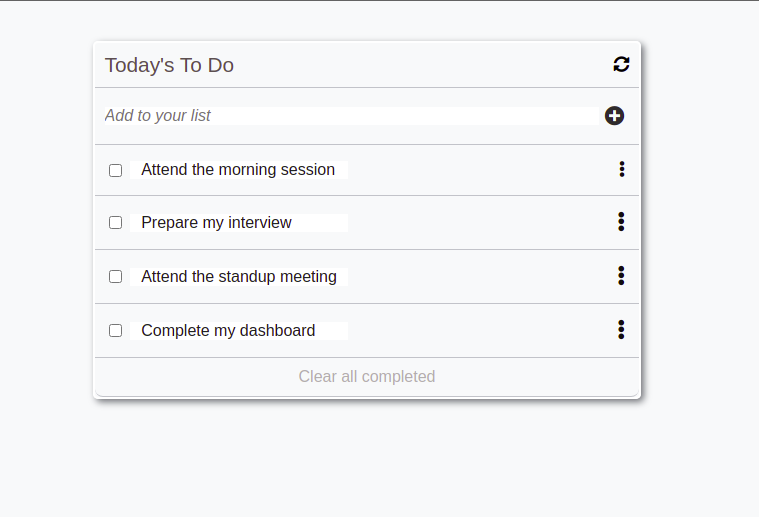
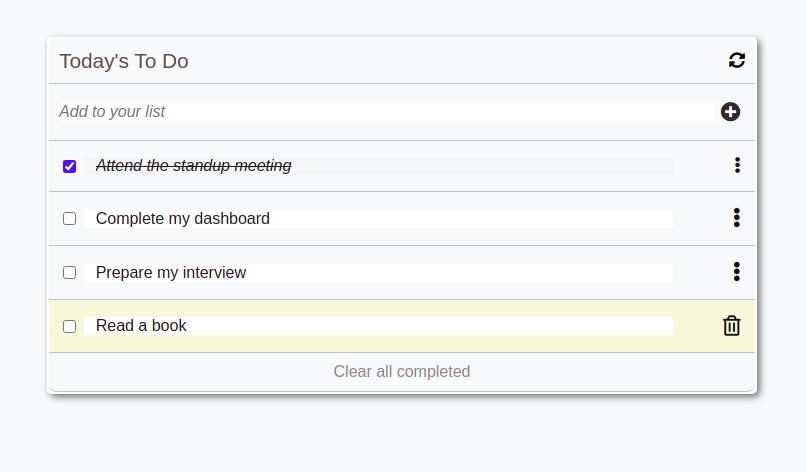
Update app screenshot in README.md fole and Update js files wit ```run build```

diff --git a/dist/index.bundle.js b/dist/index.bundle.js
@@ -1,1 +1,1 @@
-(()=>{"use strict";var n={426:(n,e,t)=>{t.d(e,{Z:()=>s});var r=t(81),o=t.n(r),i=t(645),a=t.n(i)()(o());a.push([n.id,"@import url(https://fonts.googleapis.com/css2?family=Poppins:wght@300;400;600&display=swap);"]),a.push([n.id,'* {\n  padding: 0;\n  margin: 0;\n  box-sizing: border-box;\n  list-style: none;\n}\n\nbody {\n  font-family: " Poppins ", sans-serif;\n  width: 100%;\n  height: 100vh;\n  background-color: #f8f9fa;\n  font-size: 16px;\n}\n\n.main-container {\n  height: 100%;\n  background-color: #f8f9fa;\n}\n\n.plus-circle-icon,\n.refrsh-img {\n  height: 20px;\n  width: 20px;\n}\n\n.flex-center-column {\n  display: flex;\n  align-items: center;\n  justify-content: start;\n  flex-direction: column;\n}\n\n.content {\n  width: 70%;\n  border: 2px solid #fff;\n  box-shadow: 3px 3px 7px #909397;\n  margin-top: 40px;\n  border-radius: 5px;\n}\n\n.title-content {\n  display: flex;\n  justify-content: space-between;\n  align-items: center;\n  padding: 10px;\n}\n\n.title-content p { font-size: 20px; }\n\n.form {\n  position: relative;\n  width: 100%;\n}\n\n.add-task-input {\n  width: 100%;\n  padding: 10px;\n  border: 1px solid #909397;\n  border-right: none;\n  border-left: none;\n  outline: none !important;\n}\n\n.add-task-input::placeholder {\n  font-style: italic;\n  font-size: 16px;\n}\n\n.return-icon {\n  position: absolute;\n  top: 10px;\n  right: 10px;\n  color: #4e5052;\n}\n\n.clickable { cursor: pointer; }\n\n.list { width: 100%; }\n\n.list .task-item,\n.list .task-item .form2 { position: relative; }\n\n.check-input {\n  position: absolute;\n  top: 12px;\n  left: 8px;\n  height: 15px;\n  width: 15px;\n  text-transform: capitalize;\n}\n\n.ellipsis-icon {\n  position: absolute;\n  right: 3px;\n  top: 10px;\n  font-weight: 900;\n}\n\n.task-input2 {\n  border: none;\n  border-bottom: 1px solid #909397;\n  width: 100%;\n  padding: 10px;\n  outline: none;\n  font-size: 18px;\n  padding-left: 30px;\n}\n\n#clear-all-btn {\n  margin: 10px auto;\n  padding: 12px 20px;\n  border: none !important;\n  background: none;\n  font-size: 18px;\n  color: #4a4c4e;\n}\n\n.plus-circle-icon {\n  position: absolute;\n  right: 10px;\n  top: 8px;\n}\n',""]);const s=a},645:n=>{n.exports=function(n){var e=[];return e.toString=function(){return this.map((function(e){var t="",r=void 0!==e[5];return e[4]&&(t+="@supports (".concat(e[4],") {")),e[2]&&(t+="@media ".concat(e[2]," {")),r&&(t+="@layer".concat(e[5].length>0?" ".concat(e[5]):""," {")),t+=n(e),r&&(t+="}"),e[2]&&(t+="}"),e[4]&&(t+="}"),t})).join("")},e.i=function(n,t,r,o,i){"string"==typeof n&&(n=[[null,n,void 0]]);var a={};if(r)for(var s=0;s<this.length;s++){var c=this[s][0];null!=c&&(a[c]=!0)}for(var l=0;l<n.length;l++){var p=[].concat(n[l]);r&&a[p[0]]||(void 0!==i&&(void 0===p[5]||(p[1]="@layer".concat(p[5].length>0?" ".concat(p[5]):""," {").concat(p[1],"}")),p[5]=i),t&&(p[2]?(p[1]="@media ".concat(p[2]," {").concat(p[1],"}"),p[2]=t):p[2]=t),o&&(p[4]?(p[1]="@supports (".concat(p[4],") {").concat(p[1],"}"),p[4]=o):p[4]="".concat(o)),e.push(p))}},e}},81:n=>{n.exports=function(n){return n[1]}},379:n=>{var e=[];function t(n){for(var t=-1,r=0;r<e.length;r++)if(e[r].identifier===n){t=r;break}return t}function r(n,r){for(var i={},a=[],s=0;s<n.length;s++){var c=n[s],l=r.base?c[0]+r.base:c[0],p=i[l]||0,d="".concat(l," ").concat(p);i[l]=p+1;var u=t(d),f={css:c[1],media:c[2],sourceMap:c[3],supports:c[4],layer:c[5]};if(-1!==u)e[u].references++,e[u].updater(f);else{var m=o(f,r);r.byIndex=s,e.splice(s,0,{identifier:d,updater:m,references:1})}a.push(d)}return a}function o(n,e){var t=e.domAPI(e);return t.update(n),function(e){if(e){if(e.css===n.css&&e.media===n.media&&e.sourceMap===n.sourceMap&&e.supports===n.supports&&e.layer===n.layer)return;t.update(n=e)}else t.remove()}}n.exports=function(n,o){var i=r(n=n||[],o=o||{});return function(n){n=n||[];for(var a=0;a<i.length;a++){var s=t(i[a]);e[s].references--}for(var c=r(n,o),l=0;l<i.length;l++){var p=t(i[l]);0===e[p].references&&(e[p].updater(),e.splice(p,1))}i=c}}},569:n=>{var e={};n.exports=function(n,t){var r=function(n){if(void 0===e[n]){var t=document.querySelector(n);if(window.HTMLIFrameElement&&t instanceof window.HTMLIFrameElement)try{t=t.contentDocument.head}catch(n){t=null}e[n]=t}return e[n]}(n);if(!r)throw new Error("Couldn't find a style target. This probably means that the value for the 'insert' parameter is invalid.");r.appendChild(t)}},216:n=>{n.exports=function(n){var e=document.createElement("style");return n.setAttributes(e,n.attributes),n.insert(e,n.options),e}},565:(n,e,t)=>{n.exports=function(n){var e=t.nc;e&&n.setAttribute("nonce",e)}},795:n=>{n.exports=function(n){var e=n.insertStyleElement(n);return{update:function(t){!function(n,e,t){var r="";t.supports&&(r+="@supports (".concat(t.supports,") {")),t.media&&(r+="@media ".concat(t.media," {"));var o=void 0!==t.layer;o&&(r+="@layer".concat(t.layer.length>0?" ".concat(t.layer):""," {")),r+=t.css,o&&(r+="}"),t.media&&(r+="}"),t.supports&&(r+="}");var i=t.sourceMap;i&&"undefined"!=typeof btoa&&(r+="\n/*# sourceMappingURL=data:application/json;base64,".concat(btoa(unescape(encodeURIComponent(JSON.stringify(i))))," */")),e.styleTagTransform(r,n,e.options)}(e,n,t)},remove:function(){!function(n){if(null===n.parentNode)return!1;n.parentNode.removeChild(n)}(e)}}}},589:n=>{n.exports=function(n,e){if(e.styleSheet)e.styleSheet.cssText=n;else{for(;e.firstChild;)e.removeChild(e.firstChild);e.appendChild(document.createTextNode(n))}}}},e={};function t(r){var o=e[r];if(void 0!==o)return o.exports;var i=e[r]={id:r,exports:{}};return n[r](i,i.exports,t),i.exports}t.n=n=>{var e=n&&n.__esModule?()=>n.default:()=>n;return t.d(e,{a:e}),e},t.d=(n,e)=>{for(var r in e)t.o(e,r)&&!t.o(n,r)&&Object.defineProperty(n,r,{enumerable:!0,get:e[r]})},t.o=(n,e)=>Object.prototype.hasOwnProperty.call(n,e),(()=>{var n=t(379),e=t.n(n),r=t(795),o=t.n(r),i=t(569),a=t.n(i),s=t(565),c=t.n(s),l=t(216),p=t.n(l),d=t(589),u=t.n(d),f=t(426),m={};m.styleTagTransform=u(),m.setAttributes=c(),m.insert=a().bind(null,"head"),m.domAPI=o(),m.insertStyleElement=p(),e()(f.Z,m),f.Z&&f.Z.locals&&f.Z.locals;class h{constructor(n){this.description=n,this.index=new Date,this.completed=!1}}const x=document.querySelector("#add-task"),v=JSON.parse(localStorage.getItem("Task-list"))||[];function g(){return v.map((n=>n))}x.addEventListener("submit",(()=>{const n=document.querySelector("#add-task-input").value;if(""===n)return;const e=new h(n);v.push(e),localStorage.setItem("Task-list",JSON.stringify(v))})),document.querySelector(".clear-task").addEventListener("click",(()=>{v.length>0&&(localStorage.clear("Task-list"),location.reload())})),document.querySelector(".reload").addEventListener("click",(()=>{location.reload()}));const b=document.querySelector(".task-list-container");g().forEach((n=>{b.innerHTML+=`<li class="container task flex-center" draggable="true">\n  <span class="left flex-center">\n    <input id=${n.index} type="checkbox" ${n.completed?"checked":""}  class="checkbox" />\n    <form class="edit-form" action="/">\n    <input data-index-number=${n.index} value='${function(n){return n.description}(n)}' class="${n.completed?"edit-task disabled":"edit-task"}" ${n.completed?"disabled":""} ></form>\n  </span>\n  <span class="right">\n    <i class="fas fa-ellipsis-v"></i>\n  </span>\n</li>`})),document.querySelectorAll(".task");const y=document.querySelectorAll(".edit-task");document.querySelectorAll(".edit-form").forEach((n=>{n.addEventListener("submit",(n=>{n.preventDefault(),y.forEach((n=>{g().forEach((e=>{n.dataset.indexNumber===e.index&&(e.description=n.value,localStorage.setItem("Task-list",JSON.stringify(g())))}))}))}))}))})()})();
+(()=>{"use strict";var n={426:(n,t,e)=>{e.d(t,{Z:()=>i});var r=e(81),o=e.n(r),a=e(645),s=e.n(a)()(o());s.push([n.id,"@import url(https://fonts.googleapis.com/css2?family=Poppins:wght@300;400;600&display=swap);"]),s.push([n.id,'* {\n  padding: 0;\n  margin: 0;\n  box-sizing: border-box;\n  list-style: none;\n}\n\nbody {\n  font-family: " Poppins ", sans-serif;\n  width: 100%;\n  height: 100vh;\n  background-color: #f8f9fa;\n  font-size: 16px;\n}\n\n.main-container {\n  height: 100%;\n  background-color: #f8f9fa;\n}\n\ninput,\nbutton {\n  border: none;\n  outline: none;\n}\n\ni { cursor: pointer; }\n\n.flex-center {\n  display: flex;\n  justify-content: flex-start;\n  align-items: center;\n}\n\n#tasks {\n  width: 100%;\n  height: 100%;\n  flex-direction: column;\n}\n\n.task-list {\n  flex-direction: column;\n  border: 2px solid #fff;\n  width: 70%;\n  box-shadow: 3px 3px 7px #73767a;\n  margin-top: 40px;\n  border-radius: 5px;\n}\n\n.task-list .container {\n  flex-direction: row;\n  padding: 10px;\n  width: 100%;\n  border-bottom: 1px solid #c1c4c9;\n  justify-content: space-between;\n}\n\n.task-list-container {\n  width: 100%;\n}\n\n.task-list #add-task {\n  width: 100%;\n  justify-content: space-between;\n}\n\n.task-list #add-task button {\n  padding: 8px 5px;\n  background-color: transparent;\n}\n\n.task-list-container .task i {\n  font-size: 20px;\n  color: #0f0f0f;\n}\n\n.task-list .container:first-child i {\n  font-size: 1rem;\n  cursor: pointer;\n}\n\n.task-list #add-task button i {\n  font-size: 20px;\n  color: #2e2b2b;\n  transform: rotate(90deg);\n}\n\n.task-list #add-task button i:hover {\n  color: #878a8f;\n}\n\n.task-list #add-task input {\n  flex: 1;\n  font-family: " Roboto ", sans-serif;\n  font-style: italic;\n  font-size: 1rem;\n  font-weight: 300;\n}\n\n.task-list-container .task {\n  width: 100%;\n  justify-content: space-between;\n  padding: 1rem 0.9rem;\n  cursor: move;\n}\n\n.task-list-container .task .left {\n  width: 90%;\n}\n\n.task-list-container .task .left form {\n  width: 100%;\n}\n\n.task-list-container .task .left .edit-task {\n  padding-left: 0.7rem;\n  font-size: 1rem;\n  color: #201f1f;\n  flex: 1;\n  margin-left: 0.5rem;\n}\n\n.title {\n  color: #5c5050;\n  font-size: 1.3rem;\n}\n\n.btn {\n  cursor: pointer;\n  font-size: 1rem;\n  color: #b3aeae;\n  background-color: #f8f9fa;\n  border-bottom-left-radius: 0.5rem;\n  border-bottom-right-radius: 0.5rem;\n}\n\n.btn:hover {\n  background-color: #b3aeae;\n  color: #f8f9fa;\n}\n\n.disabled {\n  font-size: 0.6rem;\n  font-style: italic;\n}\n\n.focus {\n  background-color: #faf3db;\n}\n\n.task-list-container .task .right .far {\n  display: none;\n}\n\n.task-list-container .task.focus .right .far {\n  display: block;\n}\n\n.task-list-container .task.focus .right .fas {\n  display: none;\n}\n',""]);const i=s},645:n=>{n.exports=function(n){var t=[];return t.toString=function(){return this.map((function(t){var e="",r=void 0!==t[5];return t[4]&&(e+="@supports (".concat(t[4],") {")),t[2]&&(e+="@media ".concat(t[2]," {")),r&&(e+="@layer".concat(t[5].length>0?" ".concat(t[5]):""," {")),e+=n(t),r&&(e+="}"),t[2]&&(e+="}"),t[4]&&(e+="}"),e})).join("")},t.i=function(n,e,r,o,a){"string"==typeof n&&(n=[[null,n,void 0]]);var s={};if(r)for(var i=0;i<this.length;i++){var c=this[i][0];null!=c&&(s[c]=!0)}for(var l=0;l<n.length;l++){var d=[].concat(n[l]);r&&s[d[0]]||(void 0!==a&&(void 0===d[5]||(d[1]="@layer".concat(d[5].length>0?" ".concat(d[5]):""," {").concat(d[1],"}")),d[5]=a),e&&(d[2]?(d[1]="@media ".concat(d[2]," {").concat(d[1],"}"),d[2]=e):d[2]=e),o&&(d[4]?(d[1]="@supports (".concat(d[4],") {").concat(d[1],"}"),d[4]=o):d[4]="".concat(o)),t.push(d))}},t}},81:n=>{n.exports=function(n){return n[1]}},379:n=>{var t=[];function e(n){for(var e=-1,r=0;r<t.length;r++)if(t[r].identifier===n){e=r;break}return e}function r(n,r){for(var a={},s=[],i=0;i<n.length;i++){var c=n[i],l=r.base?c[0]+r.base:c[0],d=a[l]||0,f="".concat(l," ").concat(d);a[l]=d+1;var u=e(f),p={css:c[1],media:c[2],sourceMap:c[3],supports:c[4],layer:c[5]};if(-1!==u)t[u].references++,t[u].updater(p);else{var m=o(p,r);r.byIndex=i,t.splice(i,0,{identifier:f,updater:m,references:1})}s.push(f)}return s}function o(n,t){var e=t.domAPI(t);return e.update(n),function(t){if(t){if(t.css===n.css&&t.media===n.media&&t.sourceMap===n.sourceMap&&t.supports===n.supports&&t.layer===n.layer)return;e.update(n=t)}else e.remove()}}n.exports=function(n,o){var a=r(n=n||[],o=o||{});return function(n){n=n||[];for(var s=0;s<a.length;s++){var i=e(a[s]);t[i].references--}for(var c=r(n,o),l=0;l<a.length;l++){var d=e(a[l]);0===t[d].references&&(t[d].updater(),t.splice(d,1))}a=c}}},569:n=>{var t={};n.exports=function(n,e){var r=function(n){if(void 0===t[n]){var e=document.querySelector(n);if(window.HTMLIFrameElement&&e instanceof window.HTMLIFrameElement)try{e=e.contentDocument.head}catch(n){e=null}t[n]=e}return t[n]}(n);if(!r)throw new Error("Couldn't find a style target. This probably means that the value for the 'insert' parameter is invalid.");r.appendChild(e)}},216:n=>{n.exports=function(n){var t=document.createElement("style");return n.setAttributes(t,n.attributes),n.insert(t,n.options),t}},565:(n,t,e)=>{n.exports=function(n){var t=e.nc;t&&n.setAttribute("nonce",t)}},795:n=>{n.exports=function(n){var t=n.insertStyleElement(n);return{update:function(e){!function(n,t,e){var r="";e.supports&&(r+="@supports (".concat(e.supports,") {")),e.media&&(r+="@media ".concat(e.media," {"));var o=void 0!==e.layer;o&&(r+="@layer".concat(e.layer.length>0?" ".concat(e.layer):""," {")),r+=e.css,o&&(r+="}"),e.media&&(r+="}"),e.supports&&(r+="}");var a=e.sourceMap;a&&"undefined"!=typeof btoa&&(r+="\n/*# sourceMappingURL=data:application/json;base64,".concat(btoa(unescape(encodeURIComponent(JSON.stringify(a))))," */")),t.styleTagTransform(r,n,t.options)}(t,n,e)},remove:function(){!function(n){if(null===n.parentNode)return!1;n.parentNode.removeChild(n)}(t)}}}},589:n=>{n.exports=function(n,t){if(t.styleSheet)t.styleSheet.cssText=n;else{for(;t.firstChild;)t.removeChild(t.firstChild);t.appendChild(document.createTextNode(n))}}}},t={};function e(r){var o=t[r];if(void 0!==o)return o.exports;var a=t[r]={id:r,exports:{}};return n[r](a,a.exports,e),a.exports}e.n=n=>{var t=n&&n.__esModule?()=>n.default:()=>n;return e.d(t,{a:t}),t},e.d=(n,t)=>{for(var r in t)e.o(t,r)&&!e.o(n,r)&&Object.defineProperty(n,r,{enumerable:!0,get:t[r]})},e.o=(n,t)=>Object.prototype.hasOwnProperty.call(n,t),(()=>{var n=e(379),t=e.n(n),r=e(795),o=e.n(r),a=e(569),s=e.n(a),i=e(565),c=e.n(i),l=e(216),d=e.n(l),f=e(589),u=e.n(f),p=e(426),m={};m.styleTagTransform=u(),m.setAttributes=c(),m.insert=s().bind(null,"head"),m.domAPI=o(),m.insertStyleElement=d(),t()(p.Z,m),p.Z&&p.Z.locals&&p.Z.locals;const h=function(){class n{constructor(n){this.description=n,this.index=new Date,this.completed=!1}}const t=document.querySelector("#add-task"),e=JSON.parse(localStorage.getItem("Task-list"))||[];return t.addEventListener("submit",(()=>{const t=document.querySelector("#add-task-input").value;if(""===t)return;const r=new n(t);e.push(r),localStorage.setItem("Task-list",JSON.stringify(e))})),e}();function v(){return h.map((n=>n))}const b=document.querySelector(".task-list-container");v().forEach((n=>{b.innerHTML+=`<li class="container task flex-center" draggable="true">\n  <span class="left flex-center">\n    <input id=${n.index} type="checkbox" ${n.completed?"checked":""}  class="checkbox" />\n    <form class="edit-form" action="/">\n     <input data-index-number=${n.index} value='${function(n){return n.description}(n)}' class="${n.completed?"edit-task disabled":"edit-task"}" ${n.completed?"disabled":""}>\n   </form>\n  </span>\n    <span class="right">\n      <i class="fas fa-ellipsis-v"></i>\n      <i class="far fa-trash-alt"></i>\n      </span>\n  </li>`}));const k=document.querySelectorAll(".task"),g=document.querySelectorAll(".edit-task"),y=document.querySelectorAll(".edit-form"),x=document.querySelector(".reload");document.querySelectorAll(".checkbox"),y.forEach((n=>{n.addEventListener("submit",(n=>{n.preventDefault(),g.forEach((n=>{v().forEach((t=>{n.dataset.indexNumber===t.index&&(t.description=n.value,localStorage.setItem("Task-list",JSON.stringify(v())))}))}))}))})),x.addEventListener("click",(()=>{location.reload()})),k.forEach((n=>{n.addEventListener("click",(()=>{k.forEach((n=>n.classList.remove("focus"))),n.classList.add("focus")}))})),document.querySelector(".clear-task").addEventListener("click",(()=>{if(v().length>0){const n=v().filter((n=>!0!==n.completed));localStorage.setItem("Task-list",JSON.stringify(n)),location.reload()}})),k.forEach((n=>{n.addEventListener("click",(()=>{var t,e;n.classList.contains("focus")&&(t=n.querySelector(".far"),e=n.querySelector(".checkbox").id,t.addEventListener("click",(()=>{const n=v().filter((n=>n.index!==e));localStorage.setItem("Task-list",JSON.stringify(n)),location.reload()})))}))}))})()})();

diff --git a/dist/index.html b/dist/index.html
@@ -1,1 +1,1 @@
-<!doctype html><html lang="en"><head><meta charset="UTF-8"><meta http-equiv="X-UA-Compatible" content="IE=edge"><meta name="viewport" content="width=device-width,initial-scale=1"><link rel="stylesheet" href="https://pro.fontawesome.com/releases/v5.10.0/css/all.css" integrity="sha384-AYmEC3Yw5cVb3ZcuHtOA93w35dYTsvhLPVnYs9eStHfGJvOvKxVfELGroGkvsg+p" crossorigin="anonymous"/><title>Todo_List_App</title><script defer="defer" src="index.bundle.js"></script></head><body><div id="tasks" class="flex-center"><div class="task-list flex-center"><div class="container flex-center"><span class="title">Today's To Do</span> <span class="reload"><i class="fas fa-sync-alt"></i></span></div><div class="container flex-center"><form id="add-task" class="flex-center" action="/"><input id="add-task-input" placeholder="Add to your list"/> <button><i class="fa fa-level-down-alt"></i></button></form></div><ul class="task-list-container"></ul><button class="container btn clear-task" type="button">Clear all completed</button></div></div></body></html>
+<!doctype html><html lang="en"><head><meta charset="UTF-8"><meta http-equiv="X-UA-Compatible" content="IE=edge"><meta name="viewport" content="width=device-width,initial-scale=1"><link rel="stylesheet" href="https://pro.fontawesome.com/releases/v5.10.0/css/all.css" integrity="sha384-AYmEC3Yw5cVb3ZcuHtOA93w35dYTsvhLPVnYs9eStHfGJvOvKxVfELGroGkvsg+p" crossorigin="anonymous"/><title>Todo_List_App</title><script defer="defer" src="index.bundle.js"></script></head><body><div id="tasks" class="flex-center"><div class="task-list flex-center"><div class="container flex-center"><span class="title">Today's To Do</span> <span class="reload"><i class="fas fa-sync-alt"></i></span></div><div class="container flex-center"><form id="add-task" class="flex-center" action="/"><input id="add-task-input" placeholder="Add to your list"/> <button><i class="fa fa-plus-circle"></i></button></form></div><ul class="task-list-container"></ul><button class="container btn clear-task" type="button">Clear all completed</button></div></div></body></html>
